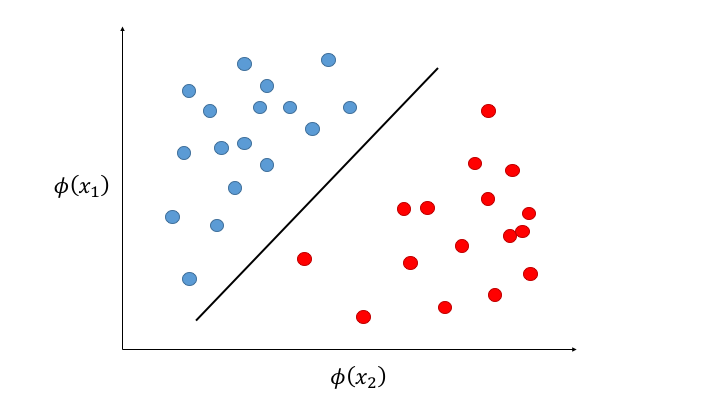
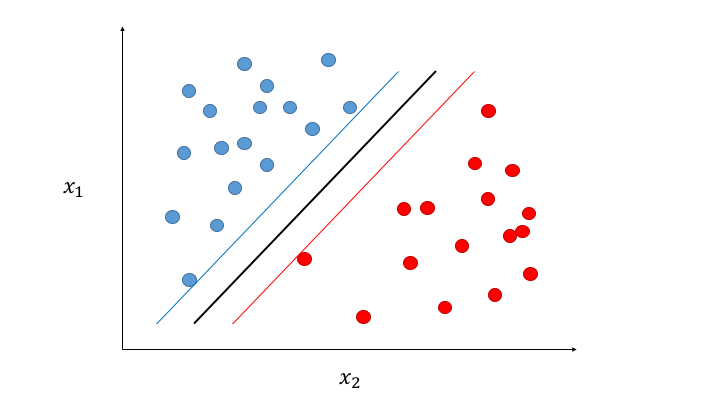
Fixed section about SVM

diff --git a/chapters/03_method.tex b/chapters/03_method.tex
@@ -50,14 +50,14 @@ Algorithms for analysis has been chosen to be as simple as possible yet give a s
 
 
 \section{Introduction to the cases}
-Below we present the four cases which has been studied. They were chosen to give a representative view of the questions one might want to address using a graph representation. Also, the cases have been chosen to show the width of use cases that a graph representation could cover.
+Below we present the three cases which has been studied. They were chosen to give a representative view of the questions one might want to address using a graph representation. Also, the cases have been chosen to show the width of use cases that a graph representation could cover.
 
 \subsection{Gh0st RAT Controllers}
-Gh0st RAT (Remote Access Terminal) is a trojan horse used to hack and take control of computers in real-time. The malware has been used to hack some of the most sensitive computers in the world.
+Gh0st RAT (Remote Access Terminal) is a Trojan horse used to hack and take control of computers in real-time. The malware has been used to hack some of the most sensitive computers in the world.
 
-Our data consists of NetFlow data related to a number of IP addresses that have been identified as Ghost RAT controllers. The data is annotated such that known RAT controllers have been annotated with the label \textit{Ghost}. There is also information of the IP traffic such that it is known which IP address that has communicated with whom. Thus, in this case our graph model consists of IP addresses as nodes and a relation ``COMMUNICATED'' between them if they have communicated. The graph is modelled as an undirected graph, since the RAT controller-slave communication can be initiated in any direction.
+Our data consists of NetFlow data related to a number of IP addresses that have been identified as Ghost RAT controllers. The data is annotated such that known RAT controllers have been annotated with the label \textit{Ghost}. There is also information of the IP traffic such that it is known which IP address that has communicated with whom. Thus, in this case our graph model consists of IP addresses as nodes with the relations ``COMMUNICATED'' between them if they have communicated. The graph is modelled as an undirected graph, since the RAT controller-slave communication could have been initiated in any direction.
 
-We have two similar data sets. The first set is based on 21831 NetFlow records collected during the first months of 2017. In total, the data consist of 3566 IP addresses where 204 of them have been identified as RAT controllers, using packet inspection of responses from RAT controllers. A topographic view of the network can be seen in figure \ref{ip1}.
+We have two similar data sets. The first set is based on 21831 NetFlow records collected during the first months of 2017. In total, the data consist of 3566 IP addresses where 204 of them have been identified as RAT controllers using packet inspection of responses from RAT controllers. A topographic view of the network can be seen in figure \ref{ip1}.
 
 \begin{figure}[h!]
     \centering
@@ -68,22 +68,20 @@ We have two similar data sets. The first set is based on 21831 NetFlow records c
 
 The second data set consists of 103202 NetFlow records collected during December 2016 to Mars 2017. This data set includes 10091 IP addresses but is far more sparse with \textit{Ghost}s, containing only 32 identified RAT controllers. 
 
-The aim of this case is to classify IP addresses. This has been performed by applying similarity measures to the network. The applied similarity measures are the Dice coefficient, the Jaccard index, the cosine coefficient, the hub-promoting index and the hub-depressing index. This are all measures of structural equivalence and reflect the similarity based on the local structure. It should be noted that the similarity measures were calculated on an undirected graph due to the nature of the measures. 
+In this case, we have aimed at classifying the IP addresses, given the notion of only a few RAT controllers. As a consequence, we also aimed at identifying IP addresses that are falsely annotated as \textit{Non-ghost}s. Moreover, this study involves a comparison between the seven different measures of structural equivalence. 
 
-Furthermore, the Local Path index and the Katz index were tested. Instead of just studying the information of the nearest neighbors, they also account for more information. However, the two involves the parameter $\alpha$ that should be properly chosen. To chose it, a fraction of the dataset (20 \%) was used to chose the best value of the parameter. 
+The classification has been performed by applying different similarity measures to the network. The applied similarity measures are the Dice coefficient, the Jaccard index, the cosine coefficient, the hub-promoting index and the hub-depressing index. Thess are all measures of structural equivalence and reflect the similarity based on the local structure, i.e. only the overlap of nearest neighbors.
 
-The aim of this case study was partly to classify all the nodes given a small fraction of known nodes. Partly the aim is to identify false negatives, namely IP addresses that are falsely annotated as \textit{Non-ghost}s. Moreover, this study involves a comparison between the sever different measures of structural equivalence. 
+Furthermore, the Local Path index and the Katz index were studied. Instead of simply studying the information of the nearest neighbors, they also account for more information about the topology. However, both of these indices have a discounting factor $\alpha$ that had to be chosen. For the Local Path index, $\alpha$ was chosen to 0.1. For the Katz index, $\alpha$ was chosen to 0.2. %However, the two involves the parameter $\alpha$ that should be properly chosen. To chose it, a fraction of the dataset (20 \%) was used to chose the best value of the parameter. 
 
-The similarity was calculated for all nodes, given a small portion (1-5) of known Gh0st RAT controllers, further referred to as reference nodes. Thus, the similarities for one node, in relation to the others, were simply taken as the sum. To classify the node, a threshold was then applied. 
+The similarity was calculated for all nodes, given a small portion (1-5) of known Gh0st RAT controllers, henceforth referred to as reference nodes. Thus, the similarities for one node, in relation to the others, were simply taken as the sum. To classify the node, a threshold was then applied. If the similarity value exceeded the threshold, the node was classified as a RAT controller, i.e. a \textit{Ghost}.
 
-Once the classification was performed, for different values of the threshold, the classifier based on different similarity measures was evaluated, based on the AUC of the precision recall curve and the F$_1$ score.
+Once the classification was performed, the classifier using different similarity measures was evaluated. The evaluation was based on the AUC of the precision recall curve and the F$_1$ score. AUC can be interpreted as a value of robustness of the similarity measure while F$_1$ represents the accuracy.
 
 \subsection{Classification of malicious IP addresses}
+In this case, we have 102056 IP addresses from the Recorded Future database. In the graph, the IP addresses are represented as nodes with relations referred to as ``RELATED TO'' in between. The reason the relations have that specific label is because of the nature in which we do not know any more specific details about their co-occurrence. Furthermore, in the graph there are nodes related to malware, attack vectors and cyber vulnerabilities. These has served as additional information which has been used as information about the neighboring IP addresses.
 
-[Henrik: Explain data set]
-
-Recorded Future classifies the IP addresses based on roughly 40 rules.
-There are 5 different classes
+Recorded Future classifies the IP addresses based on roughly 40 rules. There are 5 different classes
 \begin{enumerate}
     \item None
     \item Unusual
@@ -101,7 +99,7 @@ The histogram of the classifications of the dataset is shown in \figref{hist}. W
     \label{hist}
 \end{figure}
 
-This case treats the study whether a graph approach with far less information might be enough to reconstruct their rule based classification. Removing any of their enriched data, we have simply used data found in the original reference. Thus, as a consequence, the following bold question is asked \textit{Is there a way of reconstructing Recorded Future's rule based classifier using a graph representation?} 
+This case treats the study whether a graph approach with far less information might be enough to reconstruct Recorded Future's rule based classification. Removing any of their enriched data, we have simply used data found in the original reference. Thus, as a consequence, the following bold question is asked \textit{Is there a way of reconstructing Recorded Future's rule based classifier using a graph representation?} 
 
 To classify the nodes, we have implemented a feature based node classifier. Using features based on topological information, predictions about their criticality was performed.
 
@@ -110,27 +108,25 @@ The term feature extraction refers to methods used for constructing node variabl
 \begin{itemize}
     \item PageRank based on the topology of IP addresses.
     \item Degree based on an undirected graph including only the IP addresses.
-    \item Total number of hits of one IP address in Recorded Future's data base.
+    \item Total number of hits in Recorded Future's data base.
     \item Number of unique malwares related to the nearest neighbors.
     \item Number of unique cyber vulnerabilities related to the nearest neighbors.
     \item Number of unique attack vectors related to the nearest neighbors.
 \end{itemize}
 
-The features can be divided into two categories. The first including the PageRank and degree, only including the topology of the IP addresses. The second category including more information from Recorded Future's database, such as number of hits, co-occurrences with malwares and so on. To study the impact of the different categories of features, classifications were performed including all of the features, only the topology features and finally the features including information regarding the number of hits, malwares, cyber vulnerabilities and attack vectors.
-
-% Scaling of features
-As mentioned in \secref{scale}, it is preferable to rescale the feature vectors. This was performed for each and every feature, in the range $[0,100]$, keeping the interrelation between elements in the feature vector. 
+The features can be divided into two categories. The first includes the PageRank and degree, only including the topology of the graph including only the IP addresses. The second category includes more information from Recorded Future's database, such as the number of hits, co-occurrences with malwares and so on. To study the impact of the different categories of features, classifications were performed including all of the features, only the topology features and finally the features including information regarding the number of hits, malwares, cyber vulnerabilities and attack vectors.
 
 % Choice of classifier
-Five different classifiers were briefly evaluated by studying the accuracy of prediction for only two variables at a time. Only two variables were chosen in order The different classifiers were Random Forest, Quadratic Discriminant Analysis, Logistic Regression, Nearest Neighbors and SVM using a radial basis kernel. Predicting almost equally good, the SVM was slightly better than Nearest Neighbors. Hence the SVM was chosen. The fact that it was easily extended to a multi-class classifier was also an advantage. In addition, many researchers have used SVM for feature classification and found good results \citep{campbell2011}. 
+Five different classifiers were briefly evaluated by studying the accuracy of prediction for only two variables at a time. Only two variables were chosen in order to be able to view the results in a 2D chart. The different classifiers were Random Forest, Quadratic Discriminant Analysis, Logistic Regression, Nearest Neighbors and SVM using a radial basis kernel. Predicting almost equally good, the SVM was slightly better than Nearest Neighbors. Hence the SVM was chosen. The fact that it was easily extended to a multi-class classifier was also an advantage. In addition, many researchers have used SVM for feature classification and found good results \citep{campbell2011}.
 
-After choosing the SVM classifier with radial basis function, the parameters $C$ and $\gamma$ had to properly be chosen. In order to do so, a grid search was performed. Various pairs of $C$ and $\gamma$ was tried and evaluated based on cross-validational accuracy. In accordance with the recommendation of \citet{Hsu10apractical}, an exponentionally growing sequence of parameters were studied such that $C\in\{10^{-2},10^{-1},10^{0},...,10^{3}\}$ and $\gamma\in\{10^{-3},10^{-2},...,10^{2}\}$. The evaluation of the classifier was based on the accuracy, referring the the fraction of correct predictions. The set of parameters were chosen by maximizing the accuracy while making sure the predictions included all five classes.
-Since three different sub-cases were studies, each with different features, the grid search was performed for each case. 
+The SVM takes a matrix of features as input. As mentioned in \secref{scale}, it is preferable to rescale the feature vectors to avoid that some features are dominated by others. The rescaling was performed for each and every feature, in the range $[0,1]$, keeping the interrelation between elements in the feature vector. This is in accordance with the recommendation of \citet{Hsu10apractical}.
+
+After choosing the SVM classifier with radial basis function, the parameters $C$ and $\gamma$ had to properly be chosen. In order to do so, a grid search was performed. Various pairs of $C$ and $\gamma$ was tried and evaluated based on cross-validational accuracy of 10 \% of the data. This was to avoid the pitfall of overfitting to the only dataset available. Once again in accordance with the recommendation of \citet{Hsu10apractical}, an exponentially growing sequence of parameters were studied where $C\in\{10^{-2},10^{-1},10^{0},...,10^{3}\}$ and $\gamma\in\{10^{-3},10^{-2},...,10^{2}\}$. The evaluation of the classifier was based on the accuracy, referring the the fraction of correct predictions. The set of parameters were chosen by maximizing the accuracy while making sure the predictions included all five classes. Since three different sub-cases were studies, each including a different set of features, the grid search was performed for each individual case. 
 
 % Cross-validation including split into training and test set
-After implementing the classifier, it needed to be validated. As SVM does not imply any big risk of overfitting, because of the regularization parameter $C$, a k-fold cross-validation was applied. We used 10 folds and 50 repetitions, in order to get a good statistical foundation.
+After implementing the classifier, it needed to be validated. Because of the regularization parameter $C$, SVM does not imply any big risk of overfitting. Thus, a k-fold cross-validation was applied. We used 10 folds and 20 repetitions, in order to get a good statistical foundation.
 
-Because of the skewness of the dataset, it is hard to determine whether the classifier performs better than random. Thus a pseudorandom classifier, based on a uniform distribution, was implemented in order to compare the two. 
+Because of the skewness of the dataset, a pseudorandom classifier, based on a uniform distribution, was also implemented.  The results from it was then used in order to evaluate the SVM results. 
 
 \subsection{Cyber Attacks}\label{cybertattacks}
 \input{chapters/cyberattacks_method}

diff --git a/chapters/02_theory.tex b/chapters/02_theory.tex
@@ -21,7 +21,7 @@ Local similarity measures exploit the local structures of an undirected graph $G
 \end{equation}
 where $|x|$ refers to the cardinality of the set $x$ such that $|\Gamma_x |$ gives the degree of node $x$. The expression above is the basics of the following similarity measures that will be presented. The expressions will be presented both from the notation of neighbours $\Gamma$ and also the adjacency matrix $\textbf{A}$.
 
-\textbf{Cosine coefficient.} In an undirected graph, the cosine coefficient is simply the normalization of the score of same neighbors between node $i$ and $j$ \cite{fouss2016algorithms}:
+\textbf{Cosine coefficient.} In an undirected graph, the cosine coefficient is simply the normalization of the score of same neighbors between node $i$ and $j$ \cite{fouss2016algorithms}
 \begin{equation}
     \label{cosine}
     \sigma_{cosine} = \frac{|\Gamma_i \cap \Gamma_j|}{\sqrt{|\Gamma_i||\Gamma_j|}} = \frac{\sum_{k=1}^n a_{ik}a_{kj}}{\sqrt{a_{i \circ }a_{\circ j}}}
@@ -30,28 +30,28 @@ $a_{i \circ }$ denotes the summation of row $i$ in the adjacency matrix while $a
 
 Generally speaking, the cosine coefficient between two node vectors $\textbf{v}_i$ and $\textbf{v}_j$ defined by $\textbf{v}_i^T\textbf{v}_i/(\|\textbf{v}_i\|\|\textbf{v}_j\|)$ is a measure of the linear relationship between the two node vectors. Thus, the the nodes are considered more similar the smaller angle between the node vectors in the node space.
 
-\textbf{Jaccard index.} The Jaccard index is computed as follows:
+\textbf{Jaccard index.} The Jaccard index is computed as follows
 \begin{equation}
     \label{jaccard}
     \sigma_{Jaccard} = \frac{|\Gamma_i \cap \Gamma_j|}{|\Gamma_i \cup \Gamma_j|} = \frac{\sum_{k=1}^n a_{ik}a_{kj}}{a_{i \circ }+a_{\circ j}-\sum_{k=1}^n a_{ik}a_{kj}}
 \end{equation}
 The denominator represents the number of neighbors belonging to at least one of the two nodes $i$ or $j$. Thus, the Jaccard index is the fraction of common neighbors in relation to the cardinality of the union of neighbors. 
 
-\textbf{Dice coefficient.} The Dice coefficient is defined accordingly:
+\textbf{Dice coefficient.} The Dice coefficient is defined accordingly
 \begin{equation}
     \label{dice}
     \sigma_{Dice} = \frac{2 |\Gamma_i \cap \Gamma_j|}{|\Gamma_i|+|\Gamma_j|}= \frac{2\sum_{k=1}^n a_{ik}a_{kj}}{a_{i \circ }+a_{\circ j}}
 \end{equation}
 Defined in words, the Dice coefficient is calculated as twice the number of common neighbors divided by the sum of the cardinalities of the two neighborhoods. 
 
-\textbf{Hub-promoted index.} The index promotes hubs in the network and is given by: 
+\textbf{Hub-promoted index.} The index promotes hubs in the network and is given by
 \begin{equation}
     \label{prohub}
     \sigma_{prohub} = \frac{|\Gamma_i \cap \Gamma_j|}{\min(|\Gamma_i|,|\Gamma_j|)} = \frac{\sum_{k=1}^n a_{ik}a_{kj}}{\min(a_{i \circ },a_{\circ j})}
 \end{equation}
 Since the denominator is based on the lower degree only, the links adjacent to hubs are likely to be assigned high scores \citep{lu2011}. The measure is also called overlap similarity \citep{fouss2016algorithms} since a perfect score of 1 implies that the neighborhood of one of the nodes is a subset of the neighborhood of the other node.
 
-\textbf{Hub-depressed index.} The hub-depressed index depresses hubs in the network \citep{fouss2016algorithms}:
+\textbf{Hub-depressed index.} The hub-depressed index depresses hubs in the network \citep{fouss2016algorithms}
 \begin{equation}
     \label{dehub}
     \sigma_{dehub} = \frac{|\Gamma_i \cap \Gamma_j|}{\max(|\Gamma_i|,|\Gamma_j|)} = \frac{\sum_{k=1}^n a_{ik}a_{kj}}{\max(a_{i \circ },a_{\circ j})}
@@ -126,37 +126,33 @@ As a result, a node $j$ receives a high PageRank score if it is related to many 
 % Difference between PageRank and HITS. Refer to langville2004; HITS is more costly
 
 \section{Support Vector Machine}
-[Not finished. This section will be completed in time.]
-
 Support Vector Machines (SVM) is a set of supervised learning methods originally developed for binary classification \citep{Hsu2002}. SVMs work well in practice and have been applied to various fields, such as face identification, text categorization and bioinformatics \citep{campbell2011}. In this section, we will only briefly describe the theory behind SVM. For a more rigorous description, we refer to \citep{Kecman2005,Cortes1995,campbell2011}.
 
-SVM, being a set of machine learning algorithms, are dependent on training data. Based on the training data, the SVM maps the input vectors to a high dimensional feature space, where a decision surface is constructed. A graphical representation of a simple hyperplane can be found in figure \ref{svm}. The function $\phi(\cdot)$ defines the mapping from input space to feature space and the hyperplane is found to maximize the distance from the labeled points on each side. One property of the SVM is that it minimized the empirical classification error as well as maximized the geometrical space between the samples and the constructed hyperplane \citep{Cortes1995}.
+Let us consider some training data, composed by the input vectors $\bm{x}_i\in \mathds{R}^p$ where $i=1,...,n$ and and $n$ denotes the number of classified samples. Every input vector is related to a target $y_i \in \{-1,1\}$. The training data can be viewed as labelled data in an input space. The learning task is then about finding a directed hyperplane that maximizes the distance from the two classes of labeled datapoints. A graphical representation of a hyperplane can be found in figure \ref{svm}. 
 
 \begin{figure}[h!]
     \centering
     \includegraphics[width=0.75\textwidth]{svm.png}
-    \caption{The feature space of a binary data set. The line illustrates the optimal hyperplane, dividing the two classes.}
+    \caption{The feature space of a binary data set. The black line illustrates the optimal hyperplane, dividing the two classes. Two \textit{hard} boundaries are represented as the blue and red lines. The optimal hyperplane is found when the distance between the three lines are maximized.}
     \label{svm}
 \end{figure}
 
-Let us consider the input vectors $\bm{x}_i\in \mathds{R}^p$ where $i=1,...,n$, and a target vector $y \in \{-1,1\}^n$. $n$ denotes the number of classified samples. The optimal hyperplane is then given by
+The optimal hyperplane is given by \citep{campbell2011}
 \begin{equation}
     \bm{w}\cdot\bm{x}+b=0
 \end{equation}
-where $\bm{w}$ is are the weights, perpendicular to the hyperplane, and $b$ denotes the bias or offset which displaces the hyperplane from the origin.
+where $\bm{w}$ is are the weights, perpendicular to the hyperplane, and $b$ denotes the bias or offset which displaces the hyperplane from the origin. This is found by maximizing the margins between the closest samples and the hyperplane. This can be defined as to minimizing $$\frac{1}{2}||\bm{w}||_2^2$$
 
-\begin{comment}
-Thus, the SVM will find the hyperplane which maximizes the margin by solving the following problem \citep{Hsu10apractical}
+In the example given in figure \ref{svm}, we presented a simple task where the two classes are linearly separable. In reality, it may be much more complicated and clusters could be highly intermeshed \citep{campbell2011}. Thus we now introduce the function $\phi(\cdot)$, which defines the mapping from input space to feature space with higher dimensionality. Moreover, many real life datasets contains noise and outliers, leading to poor generalisation. A way of handling this is to introduce a slack variable $\xi_i$, which imposes a relaxation of the hard boundaries. The boundary then becomes a soft margin where in addition to maximizing the margin, we want to minimize the sum of errors $\sum \xi_i$. Applying the method of Lagrange multipliers, \citet{campbell2011} concludes SVM to the following problem
 \begin{align}
     \nonumber
-    \min_{\bm{w},b,\bm{\xi}}\text{~~}&\frac{1}{2}\bm{w}^T\bm{w}+C\sum_{i=1}^{n} \xi_i \\ 
-    \text{subject to~~}&y_i(\bm{w}^T\phi(\bm{x}_i)+1)\geq 1-\xi_i\\ 
+    \min_{\bm{w},b,\bm{\xi}}\text{~~}&\frac{1}{2}\bm{w} \cdot \bm{w}+C\sum_{i=1}^{n} \xi_i \\ 
+    \text{subject to~~}&y_i(\bm{w}\cdot \phi(\bm{x}_i)+1)\geq 1-\xi_i\\ 
     &\xi_i\geq 0 \nonumber
 \end{align}
-where $\phi(\bm{x}_i)$ is a mapping of $\bm{x}_i$ to a higher dimension and $C>0$ is the penalty parameter for the error term. Solving this problem will find you a hyperplane to set the boundary decision line in the high dimensional space $\phi$.
-\end{comment}
+where $C>0$ is the penalty parameter for the error term. Solving this problem will find you a hyperplane to set the boundary decision line in the high dimensional space $\phi$.
 
-As previously mentioned, $\phi$ maps the input space to the feature space with higher dimensionality. Furthermore, the kernel is given by $K(x_i,x_j)=\phi(x_i)^T\phi(x_j)$. Three common kernels are the linear kernel the polynomial kernel and the Radial Basis Function (RBF) kernel, presented in the same order below
+A central concept in SVM is the kernel. The kernel function relates to the mapping function $\phi$ and is given by $K(x_i,x_j)=\phi(x_i)\cdot \phi(x_j)$. Three common kernels are the linear kernel, the polynomial kernel and the Radial Basis Function (RBF) kernel presented in the same order below
 \begin{align}
 K(x_i,x_j)&=x_i^Tx_j\\ \nonumber
 K(x_i,x_j)&=(\gamma x_i^T x_j + r)^d \text{~~~~~}\gamma>0\\
@@ -164,15 +160,13 @@ K(x_i,x_j)&=exp(-\gamma ||x_i-x_j||^2) \text{~~~~~}\gamma>0 \nonumber
 \end{align}
 The kernel and its parameters ($\gamma$, $r$ and $d$) are highly dependent on the task itself and has to be properly chosen. Although it may be very costly, one way of choosing parameters is to perform grid search in combination with cross-validation \citep{Hsu10apractical}.
 
-% No overfitting due to the regularization parameter C
+To conclude, the SVM maps the input vectors to a high dimensional feature space, where a decision surface is constructed. One property of the SVM is that it minimized the empirical classification error as well as maximized the geometrical space between the samples and the constructed hyperplane \citep{Cortes1995}.
 
 \subsection{One-against-one}
-Much research have been devoted towards multi-class SVM. \citet{Hsu2002} have made a comparison of the one-agains-all, one-against-one and Directed Acyclic Graph Support Vector Machines (DAGSVM) methods. In their paper, \citet{Hsu2002} concludes that one of the more suitable methods for practical use is the one-agains-one.
-
-One-against-one constructs one SVM for each pair of classes. Hence, a problem with $c$ classes would impose $c(c-1)/2$ binary SVMs.
+Much research have been devoted towards multi-class SVM. \citet{Hsu2002} have made a comparison of the one-agains-all, one-against-one and Directed Acyclic Graph Support Vector Machines (DAGSVM) methods. In their paper, \citet{Hsu2002} concludes that one of the more suitable methods for practical use is the one-agains-one. One-against-one constructs one SVM for each pair of classes. Hence, a problem with $c$ classes would impose $c(c-1)/2$ binary SVMs which are trained on data from only two classes.
 
 \subsection{Scaling \label{scale}}
-\citet{Hsu10apractical} addresses the issue of varying magnitudes of the attributes in $\bm{x}_i$. To avoid that attributes of higher order of magnitude dominates other attributes, all features should be scaled. As a result, another advantage arises since scaling the values can avoid numerical difficulties. \author{Hsu10apractical} recommend to normalize the values to the range [-1,1] or [0,1].
+\citet{Hsu10apractical} addresses the issue of varying magnitudes of the attributes in $\bm{x}_i$. To avoid that attributes of higher order of magnitude dominates other attributes, all features should be scaled. As a result, another advantage arises since scaling the values can avoid numerical difficulties. \citet{Hsu10apractical} recommend to normalize the values to the range [-1,1] or [0,1].
 
 \section{Prediction and Recall}
 To evaluate the performance of a binary classifier, the concepts of precision and recall are useful. Precision measures the retrieved instances that are relevant while recall measures how many of the relevant instances that are retrieved. Another way of putting it is to say that precision is a measure of confidence while recall gives the sensitivity \citep{powers2011}.

diff --git a/chapters/04_results.tex b/chapters/04_results.tex
@@ -7,16 +7,17 @@ We are dealing with connected data, where choosing a graph database have two adv
 
 Furthermore, there is the aspect of flexibility. Graphs are naturally additive \cite{robinson2013} such that new sub-graphs can be added containing more nodes and edges and new relations can be introduced as the understanding of the dataset grows. This have a positive implication for the analysts that does not have to model the domain in exhaustive detail from the start but can add information as time progress. 
 
-Thus, according to the motivation above, we expect to use Neo4j, which is a cloud based graph database supporting some basic analysis through their query language Cypher.
+Thus, according to the motivation above, we have created a grapg database in Neo4j, a cloud based graph database supporting some basic analysis through their query language Cypher.
 
 \section{Gh0st RAT Controllers}
+In this section, we present the AUC values and the maximal measured F$_1$ score for the different indices and different numbers of reference nodes that the similarity is based on. We first present the results for the first dataset and then move on the the second dataset. Since cross validation is performed, 20 trials has been carried out.
 
-The result for the RAT controller case is given in table \ref{aucIndex}. The table shows the AUC values and the F$_1$ score for the different indices (as rows) and different numbers of reference nodes, that the similarity is based on. Since cross validation is performed, 20 trials has been performed. We find small variance in the results.
+\textbf{The first dataset.} The result for the first dataset in the RAT controller case is given in table \ref{aucIndex}. We find small variance in the results for the local indices. The quasi-local Local Path index and the global Katz index perform wore than the local ones. 
 
 \begin{table}[h!]
     \centering
-    \caption{AUC for different number of reference nodes. The AUC is calculated from the precision-recall curve. The F$_1$ score represents the highest accuracy for in each run.}
-    \begin{tabular}{|c||c|c||c|c||c|c||c|c||c|c|}
+    \caption{AUC and F$_1$ score for different number of reference nodes. The AUC is calculated from the precision-recall curve. The F$_1$ score represents the average accuracy between the 20 runs.}
+    \begin{tabular}{|c||c|c||c|c||c|c||c|c||c|c||}
       \hline
       \multirow{2}{*}{~} 
             & \multicolumn{2}{c||}{1}
@@ -37,18 +38,18 @@ The result for the RAT controller case is given in table \ref{aucIndex}. The tab
 \end{table}
 
 
-With all the described indices and the mentioned parameters, all RAT controllers were identified properly, with a precision of 100\% and a recall of 100\%.
+With all the described indices and the mentioned parameters, all RAT controllers were identified properly, with a precision of 100 \% and a recall of 100 \%.
 
-Futhermore, there were three IP addresses that were constantly 
+Futhermore, there were three IP addresses that were constantly classified as RAT controllers, while they in fact were annotated as \textit{Non-ghost}s. In XX \% of the times, 
 
 % In how many of the cases did we classify the three IP addresses as RAT controllers?
     
-The second data set was much more sparse of RAT controllers. Of 10091 nodes, only 32 were identified as RAT controllers. Performing the exact same analysis on this data set as the previous one gave us the result shown in table \ref{aucIndex2}.
+\textbf{The second dataset.} The second data set was much more sparse of RAT controllers. Of 10091 nodes, only 32 were identified as RAT controllers. Performing the exact same analysis on this data set as the previous one gave us the result shown in table \ref{aucIndex2}.
 
 \begin{table}[h!]
     \centering
-    \caption{AUC for different number of reference nodes. The AUC is calculated from the precision-recall curve.}
-    \begin{tabular}{|c||c|c||c|c||c|c||c|c||c|c|}
+    \caption{AUC and F$_1$ score for different number of reference nodes. The AUC is calculated from the precision-recall curve. The F$_1$ score represents the average accuracy between the 20 runs.}
+    \begin{tabular}{|c||c|c||c|c||c|c||c|c||c|c||}
       \hline
       \multirow{2}{*}{~} 
             & \multicolumn{2}{c||}{1}
@@ -70,22 +71,20 @@ The second data set was much more sparse of RAT controllers. Of 10091 nodes, onl
 
 
 
-
+\FloatBarrier
 \section{Classification of malicious IP addresses}
 
-The best accuracy was found for the parameters $C=100$ and $\gamma=1$. These values were then used throughout the classification. 
-
-The results are presented in table \ref{IpRes}. The table presents the average over 100 trials and the standard deviation with a confidential level of 95 \%. The SVM classifier, based on all 6 input features, performed prediction with an accuracy of 50 \%. Futhermore, ... of the predicted classes were higher than Recorded Future's while ... \% were lower. 
+When including all the six features, the best accuracy was found for the parameters $C=100$ and $\gamma=1$. The results for the SVM, using six features, are presented in table \ref{IpRes}. The table presents the average over 100 trials and the standard deviation with a confidential level of 95 \%. The SVM classifier, based on all 6 input features, performed prediction with an accuracy of 50 \%. Futhermore, ... of the predicted classes were higher than Recorded Future's while ... \% were lower. 
 
 \begin{table}[h!]
     \centering
     \caption{Results from the SVM classifier using six features. The table shows the fraction of correct predictions (accuracy), the fraction of higher predictions and the fraction of lower predictions in relation to Recorded Future's actual classification.}
-    \begin{tabular}{|c|c|c|}
+    \begin{tabular}{|c|c|}
     \hline
-        ~   & Mean & Std  \\ \hline
-        Correct predictions & 0.9952 &  0.9903 \\
-        Higher predictions  & 0.9952 &  0.9903\\
-        Lower predictions   & 0.9952 &  0.9903\\ \hline
+        \multicolumn{2}{|c|}{SVM with 6 features}\\ \hline
+        Correct predictions & 0.200227 $\pm$0.002237 \\
+        Higher predictions  & 0.699423 $\pm$0.002294\\
+        Lower predictions   & 0.100350 $\pm$0.001660\\ \hline
     \end{tabular}
     \label{IpRes}
 \end{table}
@@ -95,12 +94,12 @@ The results from including only the two topological features are presented in ta
 \begin{table}[h!]
     \centering
     \caption{Results from the SVM classifier using two features. The table shows the fraction of correct predictions (accuracy), the fraction of higher predictions and the fraction of lower predictions in relation to Recorded Future's actual classification.}
-    \begin{tabular}{|c|c|c|}
+    \begin{tabular}{|c|c|}
     \hline
-        ~   & Mean & Std  \\ \hline
-        Correct predictions & 0.9952 &  0.9903 \\
-        Higher predictions  & 0.9952 &  0.9903\\
-        Lower predictions   & 0.9952 &  0.9903\\ \hline
+        \multicolumn{2}{|c|}{SVM with 2 features}\\ \hline
+        Correct predictions & 0.200227 $\pm$0.002237 \\
+        Higher predictions  & 0.699423 $\pm$0.002294\\
+        Lower predictions   & 0.100350 $\pm$0.001660\\ \hline
     \end{tabular}
     \label{IpRes2Feat}
 \end{table}
@@ -110,30 +109,31 @@ The results from including only four features are presented in table \ref{IpRes4
 \begin{table}[h!]
     \centering
     \caption{Results from the SVM classifier using four features. The table shows the fraction of correct predictions (accuracy), the fraction of higher predictions and the fraction of lower predictions in relation to Recorded Future's actual classification.}
-    \begin{tabular}{|c|c|c|}
+    \begin{tabular}{|c|c|}
     \hline
-        ~   & Mean & Std  \\ \hline
-        Correct predictions & 0.9952 &  0.9903 \\
-        Higher predictions  & 0.9952 &  0.9903\\
-        Lower predictions   & 0.9952 &  0.9903\\ \hline
+        \multicolumn{2}{|c|}{SVM with 4 features}\\ \hline
+        Correct predictions & 0.200227 $\pm$0.002237 \\
+        Higher predictions  & 0.699423 $\pm$0.002294\\
+        Lower predictions   & 0.100350 $\pm$0.001660\\ \hline
     \end{tabular}
     \label{IpRes4Feat}
 \end{table}
 
-For a pseudorandom classifier, the results can be found in table \ref{randClass}.
+For a pseudorandom classifier, the results can be found in table \ref{randClass}. We have found an accuracy of 20 \%, which was to be expected. However, 70 \% of the predictions gave a higher risk classification and 10 \% gave a lower risk classification.
 
 \begin{table}[h!]
     \centering
-    \caption{Results from the a pseudorandom classifier. The table shows the fraction of correct predictions (accuracy), the fraction of higher predictions and the fraction of lower predictions in relation to Recorded Future's actual classification.}
-    \begin{tabular}{|c|c|c|}
+    \caption{Results from the a random classifier, based on a uniform distribution. The table shows the fraction of correct predictions (accuracy), the fraction of higher predictions and the fraction of lower predictions in relation to Recorded Future's actual classification.}
+    \begin{tabular}{|c|c|}
     \hline
-        ~   & Mean & Std  \\ \hline
-        Correct predictions & 0.9952 &  0.9903 \\
-        Higher predictions  & 0.9952 &  0.9903\\
-        Lower predictions   & 0.9952 &  0.9903\\ \hline
+        \multicolumn{2}{|c|}{Random classifier}\\ \hline
+        Correct predictions & 0.200227 $\pm$0.002237 \\
+        Higher predictions  & 0.699423 $\pm$0.002294\\
+        Lower predictions   & 0.100350 $\pm$0.001660\\ \hline
     \end{tabular}
     \label{randClass}
 \end{table}
 
+\FloatBarrier
 \section{Prediction of Future Cyber Attacks}
 \input{chapters/cyberattacks_result}

diff --git a/pages/wordexplanation.tex b/pages/wordexplanation.tex
@@ -25,6 +25,7 @@ Explanation of central concepts in this report. The words might have a different
     \wordexpl{Edge}{A link between two nodes in a graph.}
     \wordexpl{Entity}{A person, threat actor, IP address, a company or similar.}
     \wordexpl{Exploit}{The method by which a software, data or sequence of commands takes advantage of a vulnerability to cause damage or other unwanted behaviour in a computer software or hardware.}
+    \wordexpl{Gh0st RAT}{Malware or more specifically a Trojan horse. RAT is an abbreviation for Remote Administration Tool.}
     \wordexpl{Malware}{Short for malicious software, which is a software to disrupt, access and monitor systems such as a whole network, a personal computer or an application. There are different sorts of malware, including viruses, Trojan horses and rootkits.}
     \wordexpl{Node}{A vertex in a mathematical graph or a point in a network topology from and/or to which an edge is connected.}
     \wordexpl{Path}{A walk following edges from one node to another. A sequence of nodes and edges.}

diff --git a/preamble.tex b/preamble.tex
@@ -35,6 +35,7 @@
 \usepackage{blindtext}
 \usepackage{parskip}
 \usepackage{multirow}
+\usepackage{placeins}
 
 % Typografiska rådet
 % 2) 1.5 radavstånd (även om det står 1.3)
